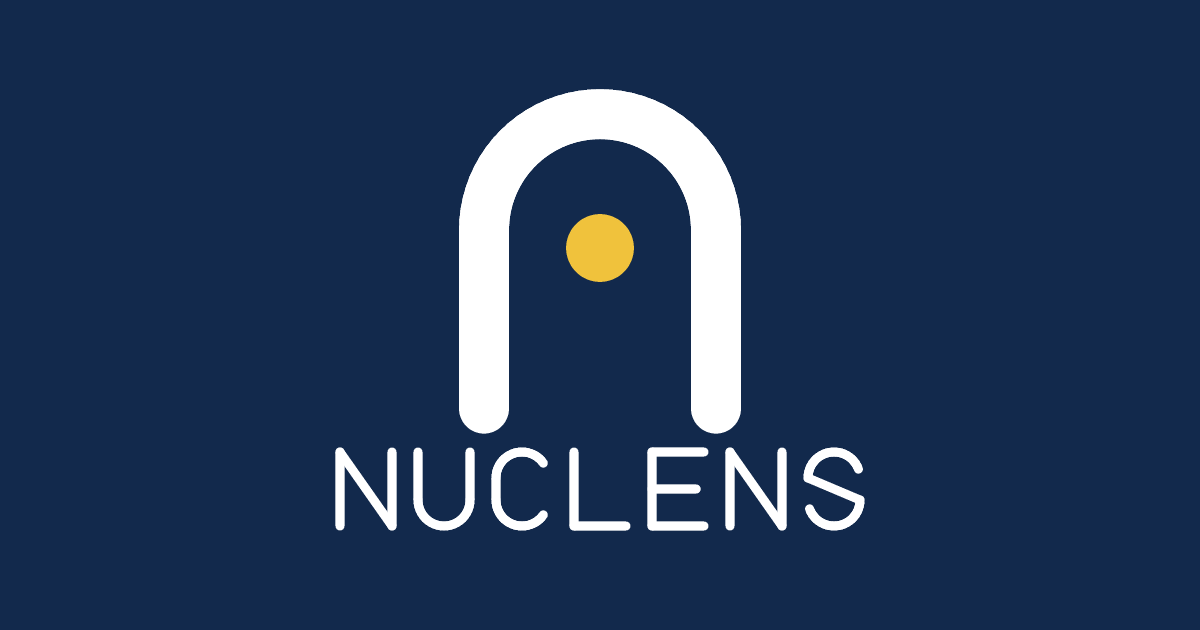
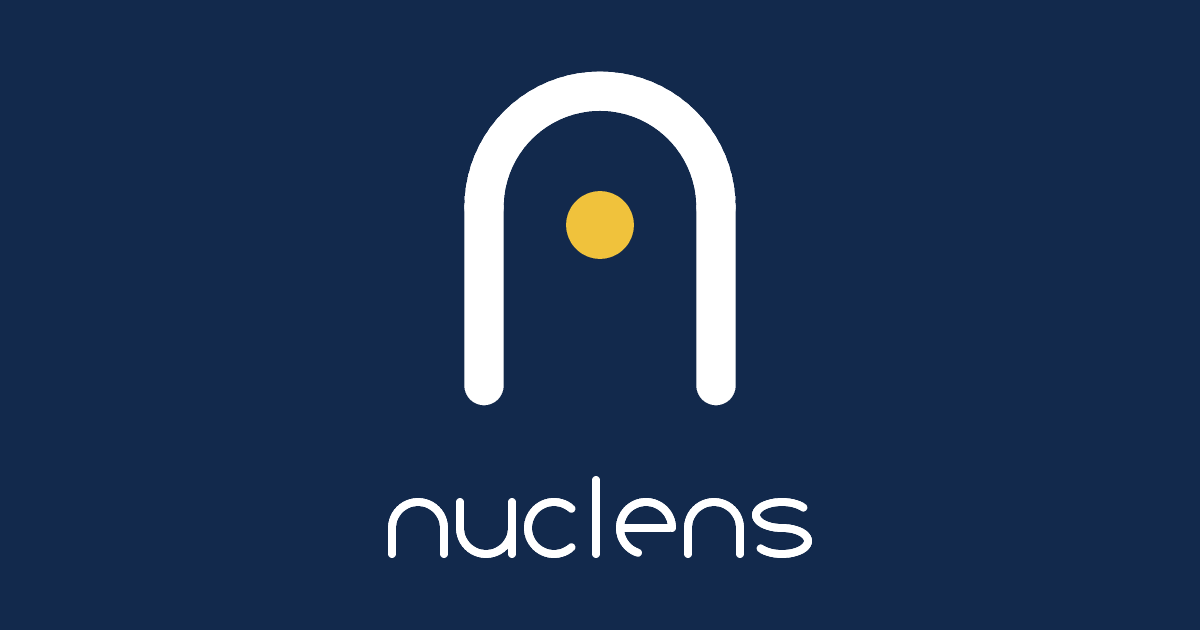
style: 워드마크 소문자 + 획 얇게 + 마크와 글자 사이 벌림
지니 2026-09-21: "nuclens 를 좀 아래로 내려줘 너무 붙어있어. 선 좀 더 얇아도
될 것 같은데. 그리고 내 꺼는 소문자로 가자."

**간격.** 공유 카드에서 아치 다리와 글자가 23px 밖에 안 떨어져 한 덩어리로
붙어 보였다. 마크를 올리고(cy 248→225) 글자를 내려(452→480) 사이를 74px 로
벌렸다. 위 88 / 아래 76 이라 광학 중심도 맞는다.

**획.** 아치 5.6 → 4.4 (48 단위 기준, -21%). 작은 크기용 교정본도 같은 비율로
7.6 → 6.0. 18px 에서 속과 노심 사이 여백은 7px 남아 안 막힌다. 워드마크 획도
9 → 8 로 같이 내렸다 — 한쪽만 얇으면 마크와 글자의 무게가 어긋난다.

**소문자.** 상단바·푸터·공유 카드 모두 nuclens. 대문자 때 벌려 두었던 자간
(.01em, 좁은 폭에서 .06em)은 되돌렸다 — 소문자는 글자마다 폭이 달라 자간을
벌리면 낱말이 흩어진다.

공유 카드 글리프는 대문자만 있었으므로 소문자 6자(n·u·c·l·e·s)를 새로 그렸다.
n 은 우리 심벌과 같은 형태다(다리 둘 + 반원 어깨) — 마크와 워드마크가 같은
기하에서 나왔다는 것이 이 브랜드의 유일한 장식이다. s 는 원 보울로 그리면
자폭이 다른 글자의 절반이 되어 반타원 둘을 가운데서 맞물렸다(ellipse_segments).
소문자는 글자마다 폭이 다르므로(l 은 획 하나) 고정 칸이 아니라 advance 로 짠다.

Changed region(s): [[0.2775, 0.0905, 0.74, 0.9048], [0.37, 0.2413, 0.4008, 0.2714]]

diff --git a/web/public/index.html b/web/public/index.html
@@ -53,9 +53,9 @@
       <!-- 아치 마크 — 격납건물 돔이자 소문자 n 의 어깨, 속의 점은 노심이자 렌즈의
            초점. 채운 사각형 + 흰 글자(네이버 문법)를 벗어난 자리다(지니 2026-09-21).
            상단바가 이미 네이비 면이라 마크에 판을 깔지 않는다 — 흰 선만 얹는다. -->
-      <span class="brand-mark" aria-hidden="true"><svg viewBox="0 0 64 64" width="30" height="30"><path d="M17 52V33a15 15 0 0 1 30 0v19" fill="none" stroke="currentColor" stroke-width="7.6" stroke-linecap="round"/><circle cx="32" cy="35" r="4.8" fill="#f0c23c"/></svg></span>
+      <span class="brand-mark" aria-hidden="true"><svg viewBox="0 0 64 64" width="30" height="30"><path d="M17 52V33a15 15 0 0 1 30 0v19" fill="none" stroke="currentColor" stroke-width="6.0" stroke-linecap="round"/><circle cx="32" cy="35" r="4.8" fill="#f0c23c"/></svg></span>
       <span class="brand-copy">
-        <strong>NUCLENS</strong>
+        <strong>nuclens</strong>
         <small>원자력 정책·산업 이슈 트래커</small>
       </span>
     </a>
@@ -646,7 +646,7 @@
 
 <footer class="foot">
   <div class="wrap foot-grid">
-    <div><strong>NUCLENS</strong><p>원자력 이슈를 연결하고, 변화를 추적합니다.</p></div>
+    <div><strong>nuclens</strong><p>원자력 이슈를 연결하고, 변화를 추적합니다.</p></div>
     <div><strong>데이터 기준</strong><p>중복 제거 후 연결된 이슈를 기준으로 표시합니다.</p></div>
     <div><strong>AI 요약 정책</strong><p>날짜·수치·기관명은 원문에서 확인하세요.</p></div>
     <div><strong>출처·저작권</strong><p>원문 저작권은 각 언론사와 기관에 있습니다.</p></div>

diff --git a/web/public/style.css b/web/public/style.css
@@ -404,7 +404,9 @@ button:disabled { cursor: not-allowed; opacity: .42; }
   line-height: 1;
 }
 .brand-copy { display: grid; min-width: 0; line-height: 1.15; }
-.brand-copy strong { letter-spacing: .01em; font-size: 16px; font-weight: 750; }
+/* 소문자 워드마크(지니 2026-09-21) — 대문자 때 벌려 두었던 자간을 되돌린다.
+   소문자는 글자마다 폭이 달라 자간을 벌리면 낱말이 흩어진다. */
+.brand-copy strong { letter-spacing: 0; font-size: 17px; font-weight: 700; }
 .brand-copy small {
   margin-top: 3px;
   color: rgb(255 255 255 / 62%);
@@ -3896,7 +3898,6 @@ dialog::backdrop { background: rgb(18 41 76 / 48%); }
 }
 
 @media (max-width: 390px) {
-  .brand-copy strong { letter-spacing: .06em; }
   .header-tools { gap: 4px; }
   /* 767px 블록에서 .section-heading·.archive-intro 가 이미 grid 다. 여기 남은
      것은 결과 머리줄뿐 — 정렬 select 가 제목 옆에서 밀려 잘리던 자리다. */

diff --git a/web/tools/make_og_image.py b/web/tools/make_og_image.py
@@ -32,17 +32,22 @@ WHITE = (0xFF, 0xFF, 0xFF)
 AMBER = (0xF0, 0xC2, 0x3C)
 
 # 아치 마크 — public/logo-mark.svg 와 같은 기하(48 단위 기준을 비율로 옮긴다).
-#   아치 반지름 13/48 · 획 5.6/48 · 다리 끝 42/48 · 노심 점 r3.8 at cy27
+#   아치 반지름 13/48 · 획 4.4/48 · 다리 끝 42/48 · 노심 점 r3.8 at cy27
 MARK_R = 116
-MARK_CY = 248
+# 마크와 워드마크가 붙어 보였다(지니 2026-09-21) — 마크를 올리고 글자를
+# 내려 사이를 74px 벌렸다. 위 88 / 아래 76 으로 광학 중심도 맞는다.
+MARK_CY = 225
 MARK_STROKE = 26
 
 # 워드마크 — 기하학적 스트로크 글리프. 폰트 의존을 없애려고 직접 그린다.
-GLYPH_H = 74
-GLYPH_W = 52
-GLYPH_GAP = 26
-GLYPH_STROKE = 9
-WORDMARK_Y = 452
+# 2026-09-21 소문자로 전환(지니). 소문자는 폭이 글자마다 달라서(l 은 획 하나)
+# 고정 칸으로 배치하면 'l' 좌우가 휑해진다 — 글자마다 advance 를 따로 준다.
+GLYPH_H = 74          # 어센더 높이 (l)
+XHEIGHT = 52          # 소문자 몸통 높이 = 둥근 글자의 지름
+GLYPH_GAP = 16
+# 아치 획을 얇게 했으므로 워드마크도 같은 비율로 얇게 — 한쪽만 얇으면 어긋난다.
+GLYPH_STROKE = 8
+WORDMARK_Y = 480
 
 SS = 3  # 슈퍼샘플링 배율 — 곡선 계단현상 제거
 
@@ -145,6 +150,53 @@ def arc_segments(cx: float, cy: float, radius: float, start: float, end: float,
             for i in range(len(points) - 1)]
 
 
+def ellipse_segments(cx: float, cy: float, rx: float, ry: float, start: float, end: float,
+                     width: float, steps: int = 32) -> list:
+    """타원 호. s 의 보울을 원으로 그리면 폭이 다른 글자의 절반이 된다 —
+    가로로 늘린 반타원 둘을 가운데서 맞물려야 자폭이 맞는다."""
+    points = []
+    for index in range(steps + 1):
+        angle = math.radians(start + (end - start) * index / steps)
+        points.append((cx + rx * math.cos(angle), cy + ry * math.sin(angle)))
+    return [segment_shape(points[i][0], points[i][1], points[i + 1][0], points[i + 1][1], width)
+            for i in range(len(points) - 1)]
+
+
+def lower_glyph(letter: str, x: float, base: float) -> tuple[list, float]:
+    """소문자 기하 글리프. (도형들, 다음 글자까지의 폭) 을 돌려준다.
+
+    n 은 우리 심벌과 같은 형태다 — 다리 둘 + 반원 어깨. 마크와 워드마크가 같은
+    기하에서 나왔다는 것이 이 브랜드의 유일한 장식이다.
+    """
+    r = XHEIGHT / 2
+    top = base - XHEIGHT
+    cy = base - r
+    s = GLYPH_STROKE
+    if letter == "l":
+        return [segment_shape(x, base - GLYPH_H, x, base, s)], s
+    if letter == "n":
+        shapes = [segment_shape(x, cy, x, base, s),
+                  segment_shape(x + 2 * r, cy, x + 2 * r, base, s)]
+        return shapes + arc_segments(x + r, cy, r, 180, 360, s), 2 * r
+    if letter == "u":
+        shapes = [segment_shape(x, top, x, cy, s),
+                  segment_shape(x + 2 * r, top, x + 2 * r, base, s)]
+        return shapes + arc_segments(x + r, cy, r, 0, 180, s), 2 * r
+    if letter == "c":
+        return arc_segments(x + r, cy, r, 48, 312, s, steps=40), 2 * r
+    if letter == "e":
+        # 가로줄은 원 오른쪽 끝에서 멈춘다 — 둥근 끝이 반 획만큼 더 나가므로
+        # 그만큼 당기지 않으면 획이 곡선 밖으로 삐져나온다.
+        shapes = [segment_shape(x + s * 0.3, cy, x + 2 * r - s * 0.4, cy, s)]
+        return shapes + arc_segments(x + r, cy, r, 0, -252, s, steps=44), 2 * r
+    if letter == "s":
+        ry = r / 2
+        shapes = ellipse_segments(x + r, top + ry, r, ry, 325, 90, s, steps=30)
+        shapes += ellipse_segments(x + r, base - ry, r, ry, 270, 505, s, steps=30)
+        return shapes, 2 * r
+    return [], 2 * r
+
+
 def glyph_shapes(letter: str, x: float, y: float, w: float, h: float) -> list:
     """대문자 기하 글리프. 브랜드 톤(정확·기하학적)에 맞춘 최소 획."""
     top, bottom = y, y + h
@@ -182,15 +234,21 @@ def glyph_shapes(letter: str, x: float, y: float, w: float, h: float) -> list:
 
 
 def draw_wordmark(canvas: Canvas, text: str) -> None:
-    total = len(text) * GLYPH_W + (len(text) - 1) * GLYPH_GAP
+    base = WORDMARK_Y + GLYPH_H
+    runs = []
+    total = 0.0
+    for index, letter in enumerate(text):
+        shapes, advance = lower_glyph(letter, 0, base)
+        runs.append((letter, advance))
+        total += advance + (GLYPH_GAP if index else 0)
     cursor = (WIDTH - total) / 2
-    for letter in text:
-        for shape in glyph_shapes(letter, cursor, WORDMARK_Y, GLYPH_W, GLYPH_H):
-            bounds = (int(cursor - GLYPH_STROKE), int(WORDMARK_Y - GLYPH_STROKE),
-                      int(cursor + GLYPH_W + GLYPH_STROKE),
-                      int(WORDMARK_Y + GLYPH_H + GLYPH_STROKE))
+    for letter, advance in runs:
+        shapes, _ = lower_glyph(letter, cursor, base)
+        bounds = (int(cursor - GLYPH_STROKE), int(base - GLYPH_H - GLYPH_STROKE),
+                  int(cursor + advance + GLYPH_STROKE), int(base + GLYPH_STROKE))
+        for shape in shapes:
             canvas.fill(_coverage(shape, bounds), WHITE)
-        cursor += GLYPH_W + GLYPH_GAP
+        cursor += advance + GLYPH_GAP
 
 
 def arch_mark(canvas: Canvas, cx: float, cy: float, unit: float,
@@ -201,7 +259,7 @@ def arch_mark(canvas: Canvas, cx: float, cy: float, unit: float,
     적지 말고 한 번 적고 배율만 바꿔야 한다.
     """
     r = 13 * unit
-    stroke = 5.6 * unit
+    stroke = 4.4 * unit
     top_y = cy - 2 * unit          # 아치 중심 (SVG 의 y=25, 박스 중심 24 기준)
     foot_y = cy + 18 * unit        # 다리 끝 (SVG 의 y=42)
     pad = stroke + 2
@@ -240,7 +298,7 @@ def write_icon(path: Path, size: int) -> None:
 def main() -> None:
     canvas = Canvas(WIDTH, HEIGHT)
     draw_mark(canvas)
-    draw_wordmark(canvas, "NUCLENS")
+    draw_wordmark(canvas, "nuclens")
     canvas.write(OUT)
     print(f"[og] {OUT.name} 생성 ({OUT.stat().st_size:,} bytes, {WIDTH}x{HEIGHT})")
     import sys

diff --git a/web/tests/test_prototype.py b/web/tests/test_prototype.py
@@ -2035,7 +2035,10 @@ class GeneratedDataTests(unittest.TestCase):
 
     def test_brand_remains_private_with_open_graph_metadata(self):
         html = (ROOT / "public" / "index.html").read_text(encoding="utf-8")
-        self.assertIn("NUCLENS", html)
+        # 워드마크는 소문자다(지니 2026-09-21) — 대문자로 되돌아가면 아치 마크와
+        # og 카드의 소문자 글리프가 화면과 어긋난다.
+        self.assertIn("<strong>nuclens</strong>", html)
+        self.assertNotIn("<strong>NUCLENS</strong>", html)
         self.assertIn('content="noindex,nofollow"', html)
         self.assertIn('name="color-scheme" content="light dark"', html)
         self.assertIn('name="description"', html)
